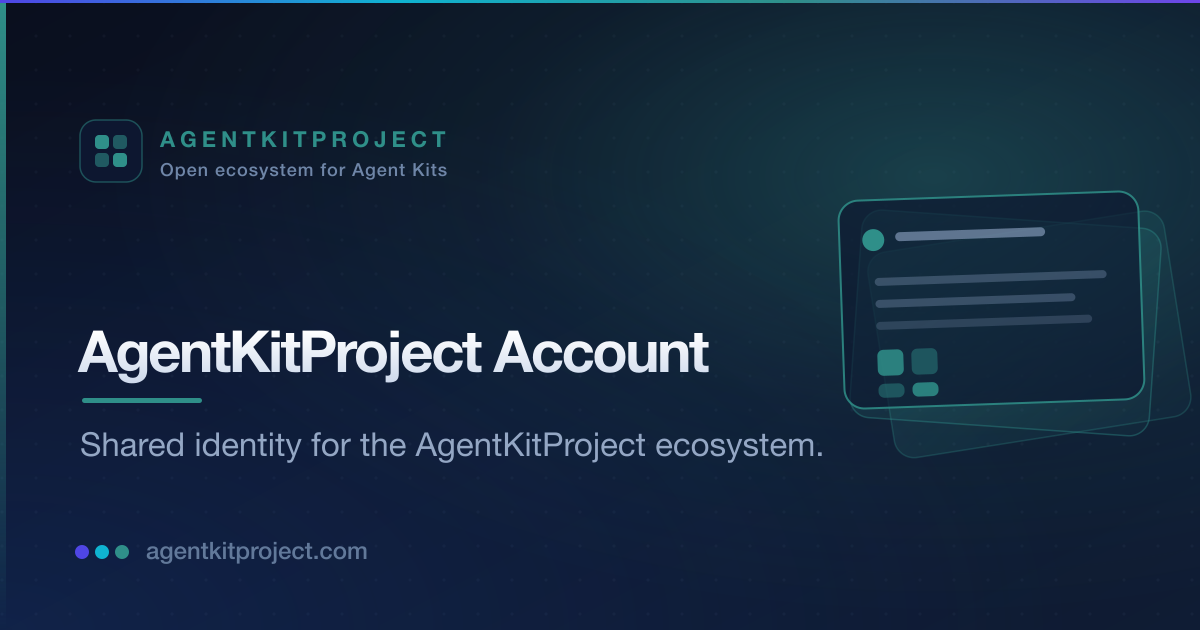
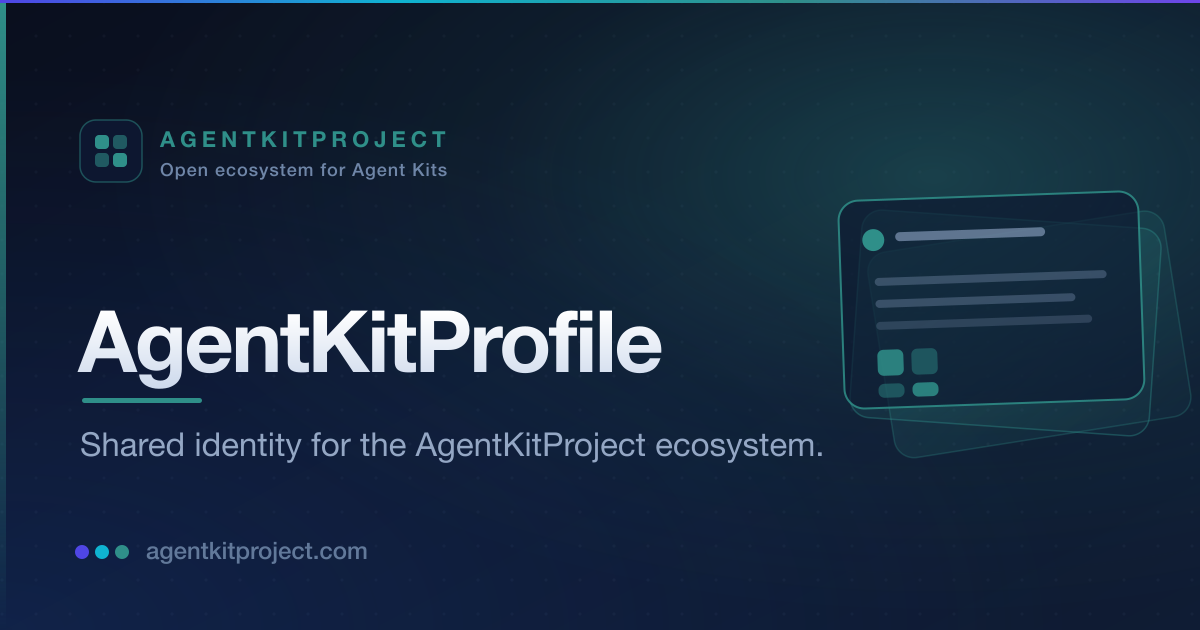
ui: fix Profile app name (AgentKitProfile, not AgentKitProject); app-switcher label Profile; drop Organizations from non-Profile apps
- Profile was mis-branded "AgentKitProject" (the umbrella/ecosystem name). It's
  the AgentKitProfile app (siblings: AgentKitForge/Market/Auto). Fixed the sidebar
  wordmark, logo aria-label, metadata title/description/og:siteName/og:alt, and the
  OG-card generator (regenerated og.png/favicons). Ecosystem references
  ("AgentKitProject ecosystem") kept where correct.
- App-switcher: the Profile entry now labels "Profile" (was "Account").
- Removed the redundant "Organizations"/"Organization" sidebar link from Market,
  Forge, and Auto — orgs are managed ONLY in Profile; users reach it via the
  standard app-switcher. Cleaned now-unused BuildingIcon (forge) + ORG_ICON (auto).

Changed region(s): [[0.0617, 0.4825, 0.5858, 0.6333]]

diff --git a/apps/auto-web/app/AutoApp.tsx b/apps/auto-web/app/AutoApp.tsx
@@ -30,14 +30,6 @@ const SECTION_ICONS: Record<AutoSectionId, ReactNode> = {
   settings: (<svg viewBox="0 0 24 24" width={18} height={18} {...stroke}><circle cx="12" cy="12" r="3.2" /><path d="M19.4 13.5a1.7 1.7 0 00.3 1.9l.1.1a2 2 0 11-2.8 2.8l-.1-.1a1.7 1.7 0 00-2.9 1.2V21a2 2 0 11-4 0v-.1a1.7 1.7 0 00-2.9-1.2l-.1.1a2 2 0 11-2.8-2.8l.1-.1a1.7 1.7 0 00-1.2-2.9H3a2 2 0 110-4h.1a1.7 1.7 0 001.2-2.9l-.1-.1a2 2 0 112.8-2.8l.1.1a1.7 1.7 0 001.9.3 1.7 1.7 0 001-1.5V3a2 2 0 114 0v.1a1.7 1.7 0 001 1.5 1.7 1.7 0 001.9-.3l.1-.1a2 2 0 112.8 2.8l-.1.1a1.7 1.7 0 00-.3 1.9 1.7 1.7 0 001.5 1H21a2 2 0 110 4h-.1a1.7 1.7 0 00-1.5 1z" /></svg>),
 };
 
-// Building/org icon for the external "Organization" link (settings live in Profile).
-const ORG_ICON: ReactNode = (
-  <svg viewBox="0 0 24 24" width={18} height={18} {...stroke}>
-    <path d="M3 21h18M5 21V5a1 1 0 011-1h7a1 1 0 011 1v16M14 21V9h4a1 1 0 011 1v11" />
-    <path d="M8 7h2M8 11h2M8 15h2" />
-  </svg>
-);
-
 // Book icon for the external "Docs" link.
 const DOCS_ICON: ReactNode = (
   <svg viewBox="0 0 24 24" width={18} height={18} {...stroke}>
@@ -111,16 +103,9 @@ export function AutoApp({
     onClick: () => setSection(s.id)
   }));
   // Discoverability link out to AgentKitProfile, where org settings now live
-  // (Profile is the system of record for org management). Only when a Profile
-  // URL is configured (omitted on a Profile-less self-host).
-  if (profileUrl) {
-    navItems.push({
-      label: "Organization",
-      icon: ORG_ICON,
-      href: `${profileUrl}/account/orgs`,
-      external: true
-    });
-  }
+  // Organizations are managed ONLY in AgentKitProfile; no redundant link here —
+  // users reach Profile via the standard app-switcher.
+
   // Docs: external link to Auto's docs page. Kept LAST in the functional nav.
   // docsUrl always defaults (the single allowed external link even on self-host).
   if (docsUrl) {

diff --git a/apps/forge-web/app/forge/ForgeApp.tsx b/apps/forge-web/app/forge/ForgeApp.tsx
@@ -13,7 +13,6 @@ import { AppShell, SidebarAccountFooter, BRAND_ACCENTS, buildAppSwitcher, type S
 import { getForgeClient } from "@/forge-client";
 import type { MyKitEntry } from "@/forge-client";
 import {
-  BuildingIcon,
   ExportIcon,
   ForgeMark,
   HammerIcon,
@@ -170,17 +169,8 @@ export default function ForgeApp({ user, config }: { user: SessionUser; config: 
     }
   }));
 
-  // Organization: link out to the AgentKitProfile orgs page (Profile is now the
-  // system of record for org management). Shown only when a Profile URL is
-  // configured (self-host without a Profile hides it).
-  if (config.links.profileUrl) {
-    navItems.push({
-      label: "Organization",
-      icon: <BuildingIcon size={18} />,
-      href: `${config.links.profileUrl}/account/orgs`,
-      external: true
-    });
-  }
+  // Organizations are managed ONLY in AgentKitProfile; no redundant link here —
+  // users reach Profile via the standard app-switcher.
 
   // Docs: external link to this app's docs page. Always present (docsUrl always
   // defaults, even on self-host). Kept LAST in the functional nav.

diff --git a/apps/market-web/components/SiteChrome.tsx b/apps/market-web/components/SiteChrome.tsx
@@ -159,18 +159,10 @@ export function SiteChrome({
     active: isActive(pathname, r.prefix),
   }));
 
-  // Organizations now live in AgentKitProfile (the system of record for org
-  // management). Surface it as an EXTERNAL link to Profile's /orgs, gated on a
-  // Profile URL being configured (self-host without a Profile hides it).
+  // Organizations are managed ONLY in AgentKitProfile (the system of record); we
+  // no longer surface a redundant Organizations link here — users reach Profile
+  // via the standard app-switcher.
   const nav: SidebarNavItem[] = [...localNav];
-  if (links.profileUrl) {
-    nav.push({
-      label: "Organizations",
-      href: `${links.profileUrl}/account/orgs`,
-      icon: ICONS.orgs,
-      external: true,
-    });
-  }
 
   // Docs is an allowed external link (hosted + self-host). Forge/Auto
   // cross-links are intentionally NOT surfaced in the sidebar.

diff --git a/apps/profile-web/app/layout.tsx b/apps/profile-web/app/layout.tsx
@@ -14,14 +14,14 @@ const SIDEBAR_INIT_SCRIPT = sidebarInitScript();
 
 export const metadata: Metadata = {
   metadataBase: new URL("https://profile.agentkitproject.com"),
-  title: "AgentKitProject Account",
-  description: "Manage your AgentKitProject profile and product access.",
+  title: "AgentKitProfile",
+  description: "Your shared AgentKitProject identity — profile, security, and connected apps.",
   manifest: "/site.webmanifest",
   openGraph: {
-    siteName: "AgentKitProject",
+    siteName: "AgentKitProfile",
     type: "website",
     locale: "en_US",
-    images: [{ url: "/og.png", width: 1200, height: 630, alt: "AgentKitProject Account" }],
+    images: [{ url: "/og.png", width: 1200, height: 630, alt: "AgentKitProfile" }],
   },
   twitter: { card: "summary_large_image", images: ["/og.png"] },
   icons: {

diff --git a/apps/profile-web/components/SiteChrome.tsx b/apps/profile-web/components/SiteChrome.tsx
@@ -16,7 +16,7 @@ function ProfileMark({ size = 38 }: { size?: number }) {
       fill="none"
       xmlns="http://www.w3.org/2000/svg"
       role="img"
-      aria-label="AgentKitProject account"
+      aria-label="AgentKitProfile"
     >
       <rect x="8" y="8" width="48" height="48" rx="14" fill="#E6F4F2" stroke="#2F8F89" strokeWidth="4" />
       <circle cx="32" cy="27" r="7" fill="#2F8F89" />
@@ -132,7 +132,7 @@ export function SiteChrome({
       logo={<ProfileMark size={38} />}
       brand={
         <>
-          AgentKit<span style={{ color: "var(--ak-brand)" }}>Project</span>
+          AgentKit<span style={{ color: "var(--ak-brand)" }}>Profile</span>
         </>
       }
       brandHref="/"

diff --git a/packages/ui/src/ecosystem.tsx b/packages/ui/src/ecosystem.tsx
@@ -58,7 +58,7 @@ const APP_ORDER: { id: EcosystemAppId; label: string }[] = [
   { id: "forge", label: "Forge" },
   { id: "market", label: "Market" },
   { id: "auto", label: "Auto" },
-  { id: "profile", label: "Account" },
+  { id: "profile", label: "Profile" },
 ];
 
 /**